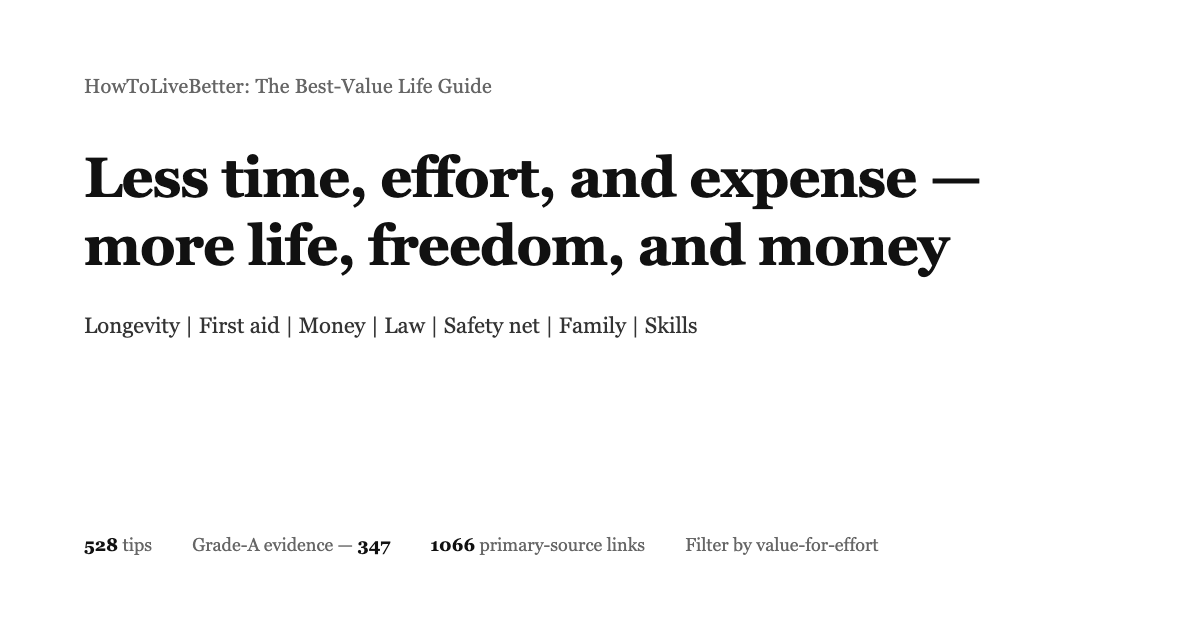
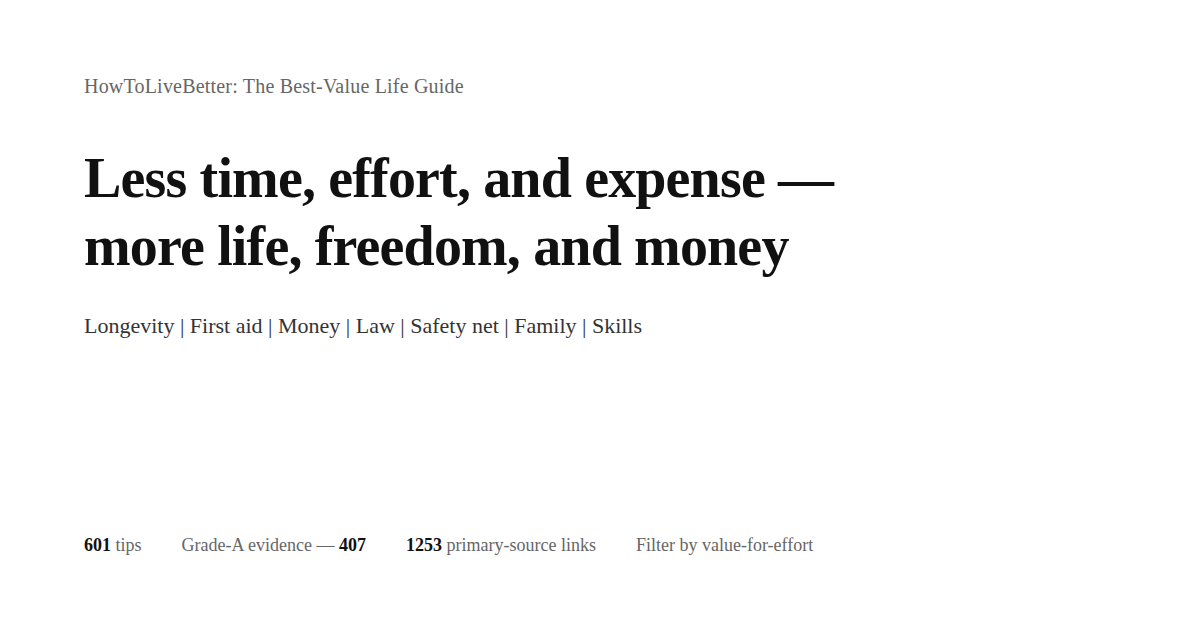
design(og): refresh counters 528/347/1066 -> 601/407/1253; sync ES links badge

diff --git a/tools/og-ru.html b/tools/og-ru.html
@@ -1,4 +1,4 @@
-<!-- Исходник og-ru.png (баннер README.ru.md). Перевод tools/og.html; цифры те же: 528 советов, 347 класса A, 1066 ссылок.
+<!-- Исходник og-ru.png (баннер README.ru.md). Перевод tools/og.html; цифры те же: 601 совет, 407 класса A, 1253 ссылки.
      Пересъёмка (macOS):
      "/Applications/Google Chrome.app/Contents/MacOS/Google Chrome" --headless=new --disable-gpu \
        --hide-scrollbars --force-device-scale-factor=1 --window-size=1200,630 \
@@ -29,9 +29,9 @@ h1{margin-top:44px;font-size:52px;line-height:1.22;letter-spacing:-.015em;color:
   <h1>Меньше времени, сил и расходов —<br>больше жизни, свободы и денег</h1>
   <p class="topics">Долголетие | Первая помощь | Деньги | Право | Семья | Навыки</p>
   <div class="stats">
-    <span><b>528</b> советов</span>
-    <span>Доказательства класса A — <b>347</b></span>
-    <span><b>1066</b> ссылок на первоисточники</span>
+    <span><b>601</b> советов</span>
+    <span>Доказательства класса A — <b>407</b></span>
+    <span><b>1253</b> ссылок на первоисточники</span>
     <span>Фильтр по выгодности</span>
   </div>
 </div>

diff --git a/tools/og-es.html b/tools/og-es.html
@@ -27,9 +27,9 @@ h1{margin-top:44px;font-size:52px;line-height:1.22;letter-spacing:-.015em;color:
   <h1>Menos tiempo, esfuerzo y gasto —<br>más vida, libertad y dinero</h1>
   <p class="topics">Longevidad | Primeros auxilios | Dinero | Leyes | Familia | Habilidades</p>
   <div class="stats">
-    <span><b>528</b> consejos</span>
-    <span>Evidencia de grado A — <b>347</b></span>
-    <span><b>1066</b> enlaces a fuentes primarias</span>
+    <span><b>601</b> consejos</span>
+    <span>Evidencia de grado A — <b>407</b></span>
+    <span><b>1253</b> enlaces a fuentes primarias</span>
     <span>Filtro por relación valor-precio</span>
   </div>
 </div>

diff --git a/tools/og-en.html b/tools/og-en.html
@@ -29,9 +29,9 @@ h1{margin-top:44px;font-size:56px;line-height:1.22;letter-spacing:-.015em;color:
   <h1>Less time, effort, and expense —<br>more life, freedom, and money</h1>
   <p class="topics">Longevity | First aid | Money | Law | Safety net | Family | Skills</p>
   <div class="stats">
-    <span><b>528</b> tips</span>
-    <span>Grade-A evidence — <b>347</b></span>
-    <span><b>1066</b> primary-source links</span>
+    <span><b>601</b> tips</span>
+    <span>Grade-A evidence — <b>407</b></span>
+    <span><b>1253</b> primary-source links</span>
     <span>Filter by value-for-effort</span>
   </div>
 </div>

diff --git a/README.es.md b/README.es.md
@@ -10,7 +10,7 @@ Covers longevity and disease prevention, accidents and first aid, saving money a
 [![Online search](https://img.shields.io/badge/Online%20search-Open%20here-3451b2?style=flat-square)](https://dlgrv.github.io/HowToLiveBetter/es/)
 [![Items](https://img.shields.io/badge/Items-528-18794e?style=flat-square)](#table-of-contents)
 [![Evidence grades](https://img.shields.io/badge/Evidence%20grades-A%20347%20%C2%B7%20B%20131%20%C2%B7%20C%2050-915930?style=flat-square)](#evidence-grades)
-[![Primary sources](https://img.shields.io/badge/Primary%20sources-1066%20links-565a5f?style=flat-square)](docs/核实记录/)
+[![Primary sources](https://img.shields.io/badge/Primary%20sources-1253%20links-565a5f?style=flat-square)](docs/核实记录/)
 [![License](https://img.shields.io/badge/License-Unlicense-565a5f?style=flat-square)](LICENSE)
 
 **[Open the online search page](https://dlgrv.github.io/HowToLiveBetter/es/)** · [Table of contents](#table-of-contents) · [Glossary](#reading-the-numbers-glossary) · [Verification records](docs/核实记录/) · [Is marriage worth it (long read)](docs/es/Is-Marriage-Worth-It.md) · [Home emergency kit (long read)](docs/es/Home-Emergency-Kit.md) · [Should you stop to help a stranger (long read)](docs/es/Should-You-Stop-To-Help-A-Stranger.md) · [What licenses a platform needs (long read)](docs/es/What-Licenses-A-Platform-Needs.md)
